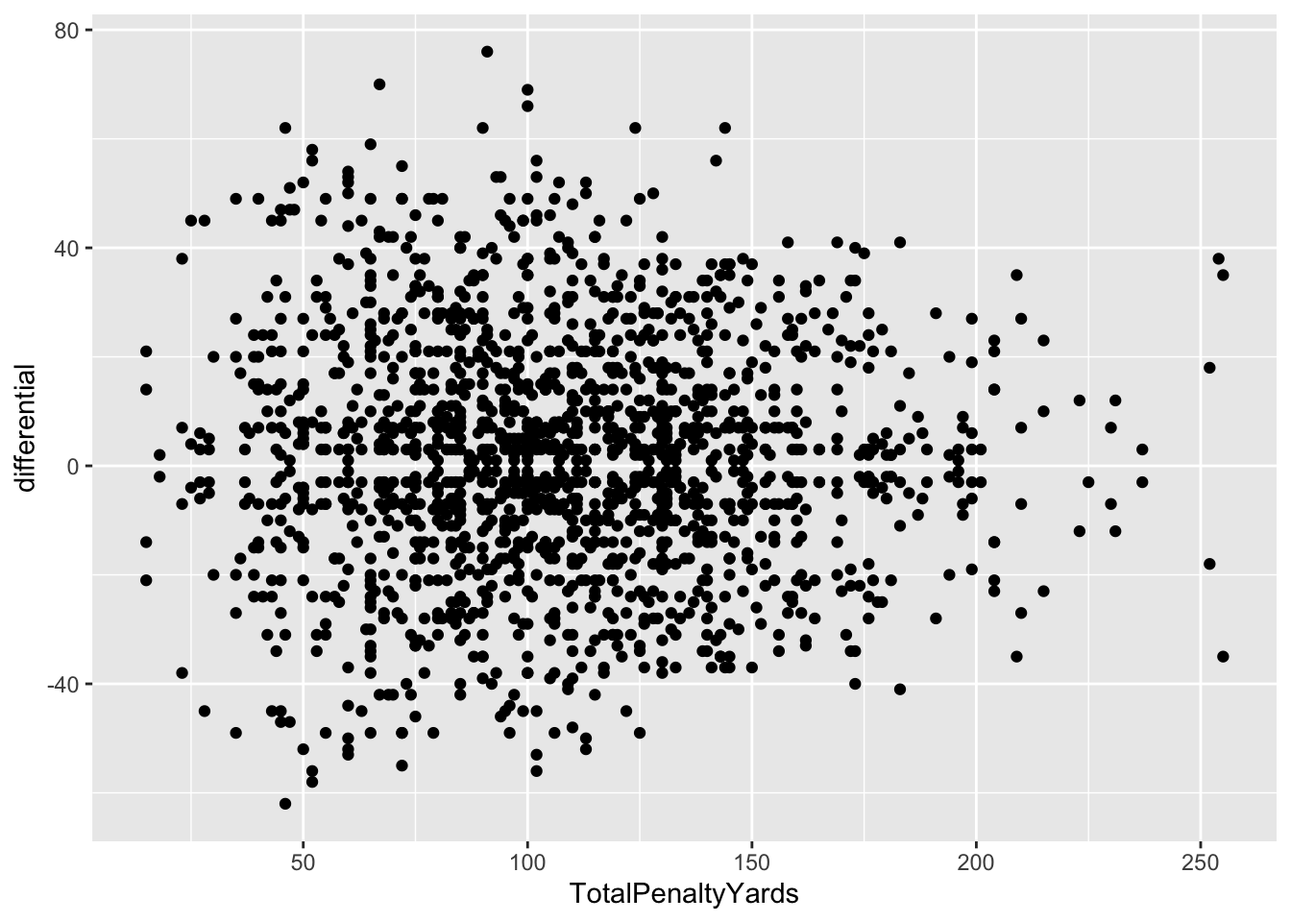
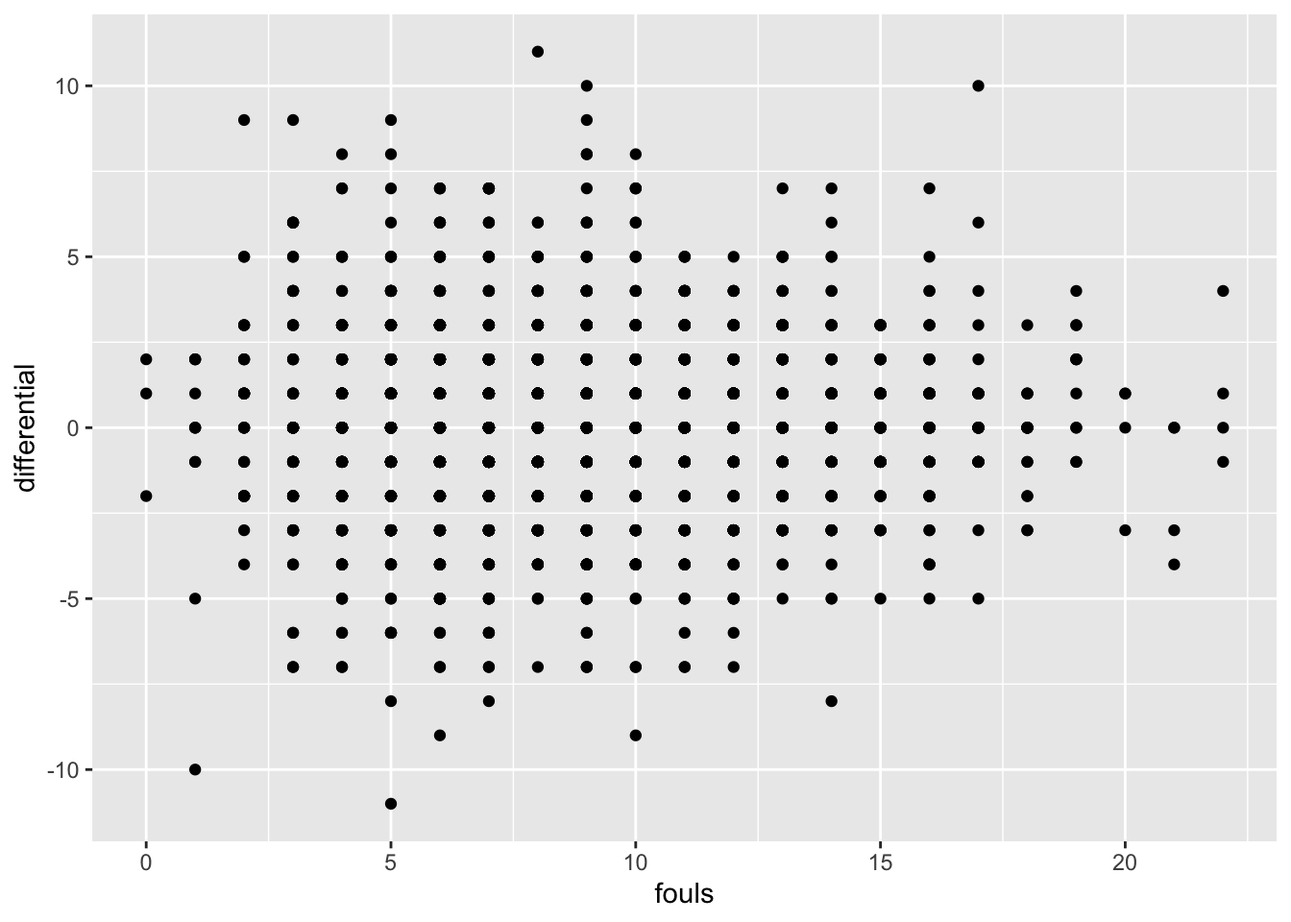
updated correlations chapter

diff --git a/sports/correlations.html b/sports/correlations.html
@@ -377,8 +377,8 @@ code span.wa { color: #60a0b0; font-weight: bold; font-style: italic; } /* Warni
 <p>Throughout sports, you will find no shortage of opinions. From people yelling at their TV screens to an entire industry of people paid to have opinions, there are no shortage of reasons why this team sucks and that player is great. They may have their reasons, but a better question is, does that reason really matter?</p>
 <p>Can we put some numbers behind that? Can we prove it or not?</p>
 <p>This is what we’re going to start to answer. And we’ll do it with correlations and regressions.</p>
-<p>First, we need data from the 2021 college football season.</p>
-<pre><p><strong>For this walkthrough:</strong></p><p><a href="https://dwillis.github.io/sportsdatafiles/footballlogs21.csv">
+<p>First, we need data from the 2021 women’s college soccer season.</p>
+<pre><p><strong>For this walkthrough:</strong></p><p><a href="https://raw.githubusercontent.com/dwillis/NCAAWomensSoccerData/main/data/ncaa_womens_soccer_matchstats_2022.csv">
   <button class="btn btn-danger"><i class="fa fa-save"></i> Download csv file</button>
 </a></p></pre>
 <p>Then load the tidyverse.</p>
@@ -387,91 +387,89 @@ code span.wa { color: #60a0b0; font-weight: bold; font-style: italic; } /* Warni
 </div>
 <p>Now import the data.</p>
 <div class="cell">
-<div class="sourceCode cell-code" id="cb2"><pre class="sourceCode r code-with-copy"><code class="sourceCode r"><span id="cb2-1"><a href="#cb2-1" aria-hidden="true" tabindex="-1"></a>correlations <span class="ot">&lt;-</span> <span class="fu">read_csv</span>(<span class="st">"data/footballlogs21.csv"</span>)</span></code><button title="Copy to Clipboard" class="code-copy-button"><i class="bi"></i></button></pre></div>
+<div class="sourceCode cell-code" id="cb2"><pre class="sourceCode r code-with-copy"><code class="sourceCode r"><span id="cb2-1"><a href="#cb2-1" aria-hidden="true" tabindex="-1"></a>correlations <span class="ot">&lt;-</span> <span class="fu">read_csv</span>(<span class="st">"data/ncaa_womens_soccer_matchstats_2022.csv"</span>)</span></code><button title="Copy to Clipboard" class="code-copy-button"><i class="bi"></i></button></pre></div>
 <div class="cell-output cell-output-stderr">
-<pre><code>Rows: 1655 Columns: 54
+<pre><code>Rows: 2442 Columns: 53
 ── Column specification ────────────────────────────────────────────────────────
 Delimiter: ","
-chr   (8): HomeAway, Opponent, Result, TeamFull, TeamURL, Outcome, Team, Con...
-dbl  (45): Game, PassingCmp, PassingAtt, PassingPct, PassingYds, PassingTD, ...
-date  (1): Date
+chr   (4): team, opponent, home_away, outcome
+dbl  (45): team_score, opponent_score, games, goals, assists, sh_att, so_g, ...
+lgl   (1): overtime
+date  (1): date
+time  (2): goalie_min_plyd, defensive_goalie_min_plyd
 
 ℹ Use `spec()` to retrieve the full column specification for this data.
 ℹ Specify the column types or set `show_col_types = FALSE` to quiet this message.</code></pre>
 </div>
 </div>
-<p>To do this, we need all FBS college football teams and their season stats from last year. How much, over the course of a season, does a thing matter? That’s the question you’re going to answer.</p>
-<p>In our case, we want to know how much does a team’s accumulated penalties influence the number of points they score in a season? How much difference can we explain in points with penalties?</p>
-<p>We’re going to use two different methods here and they’re closely related. Correlations – specifically the Pearson Correlation Coefficient – is a measure of how related two numbers are in a linear fashion. In other words – if our X value goes up one, what happens to Y? If it also goes up 1, that’s a perfect correlation. X goes up 1, Y goes up 1. Every time. Correlation coefficients are a number between 0 and 1, with zero being no correlation and 1 being perfect correlation <strong>if our data is linear</strong>. We’ll soon go over scatterplots to visually determine if our data is linear, but for now, we have a hypothesis: More penalties are bad. Penalties hurt. So if a team gets lots of them, they should have worse outcomes than teams that get few of them. That is an argument for a linear relationship between them.</p>
+<p>To do this, we need all college soccer teams and their season stats from this year. How much, over the course of a season, does a thing matter? That’s the question you’re going to answer.</p>
+<p>In our case, we want to know how much does a team’s fouls influence the number of goals they score in a season? How much difference can we explain in goals with fouls?</p>
+<p>We’re going to use two different methods here and they’re closely related. Correlations – specifically the Pearson Correlation Coefficient – is a measure of how related two numbers are in a linear fashion. In other words – if our X value goes up one, what happens to Y? If it also goes up 1, that’s a perfect correlation. X goes up 1, Y goes up 1. Every time. Correlation coefficients are a number between 0 and 1, with zero being no correlation and 1 being perfect correlation <strong>if our data is linear</strong>. We’ll soon go over scatterplots to visually determine if our data is linear, but for now, we have a hypothesis: More fouls are bad. Fouls hurt. So if a team gets lots of them, they should have worse outcomes than teams that get few of them. That is an argument for a linear relationship between them.</p>
 <p>But is there one?</p>
 <p>We’re going create a new dataframe called newcorrelations that takes our data that we imported and adds a column called <code>differential</code> because we don’t have separate offense and defense penalties, and then we’ll use correlations to see how related those two things are.</p>
 <div class="cell">
 <div class="sourceCode cell-code" id="cb4"><pre class="sourceCode r code-with-copy"><code class="sourceCode r"><span id="cb4-1"><a href="#cb4-1" aria-hidden="true" tabindex="-1"></a>newcorrelations <span class="ot">&lt;-</span> correlations <span class="sc">%&gt;%</span> </span>
 <span id="cb4-2"><a href="#cb4-2" aria-hidden="true" tabindex="-1"></a>  <span class="fu">mutate</span>(</span>
-<span id="cb4-3"><a href="#cb4-3" aria-hidden="true" tabindex="-1"></a>    <span class="at">differential =</span> TeamScore <span class="sc">-</span> OpponentScore, </span>
-<span id="cb4-4"><a href="#cb4-4" aria-hidden="true" tabindex="-1"></a>    <span class="at">TotalPenalties =</span> Penalties<span class="sc">+</span>DefPenalties, </span>
-<span id="cb4-5"><a href="#cb4-5" aria-hidden="true" tabindex="-1"></a>    <span class="at">TotalPenaltyYards =</span> PenaltyYds<span class="sc">+</span>DefPenaltyYds</span>
-<span id="cb4-6"><a href="#cb4-6" aria-hidden="true" tabindex="-1"></a>    )</span></code><button title="Copy to Clipboard" class="code-copy-button"><i class="bi"></i></button></pre></div>
+<span id="cb4-3"><a href="#cb4-3" aria-hidden="true" tabindex="-1"></a>    <span class="at">differential =</span> goals <span class="sc">-</span> defensive_goals</span>
+<span id="cb4-4"><a href="#cb4-4" aria-hidden="true" tabindex="-1"></a>    )</span></code><button title="Copy to Clipboard" class="code-copy-button"><i class="bi"></i></button></pre></div>
 </div>
-<p>In R, there is a <code>cor</code> function, and it works much the same as <code>mean</code> or <code>median</code>. So we want to see if <code>differential</code> is correlated with <code>TotalPenaltyYards</code>, which is the yards of penalties a team gets in a game. We do that by referencing <code>differential</code> and <code>TotalPenaltyYards</code> and specifying we want a <code>pearson</code> correlation. The number we get back is the correlation coefficient.</p>
+<p>In R, there is a <code>cor</code> function, and it works much the same as <code>mean</code> or <code>median</code>. So we want to see if <code>differential</code> is correlated with <code>fouls</code>, which is the yards of penalties a team gets in a game. We do that by referencing <code>differential</code> and <code>fouls</code> and specifying we want a <code>pearson</code> correlation. The number we get back is the correlation coefficient.</p>
 <div class="cell">
-<div class="sourceCode cell-code" id="cb5"><pre class="sourceCode r code-with-copy"><code class="sourceCode r"><span id="cb5-1"><a href="#cb5-1" aria-hidden="true" tabindex="-1"></a>newcorrelations <span class="sc">%&gt;%</span> <span class="fu">summarise</span>(<span class="at">correlation =</span> <span class="fu">cor</span>(differential, TotalPenaltyYards, <span class="at">method=</span><span class="st">"pearson"</span>))</span></code><button title="Copy to Clipboard" class="code-copy-button"><i class="bi"></i></button></pre></div>
+<div class="sourceCode cell-code" id="cb5"><pre class="sourceCode r code-with-copy"><code class="sourceCode r"><span id="cb5-1"><a href="#cb5-1" aria-hidden="true" tabindex="-1"></a>newcorrelations <span class="sc">%&gt;%</span> <span class="fu">summarise</span>(<span class="at">correlation =</span> <span class="fu">cor</span>(differential, fouls, <span class="at">method=</span><span class="st">"pearson"</span>))</span></code><button title="Copy to Clipboard" class="code-copy-button"><i class="bi"></i></button></pre></div>
 <div class="cell-output cell-output-stdout">
 <pre><code># A tibble: 1 × 1
   correlation
         &lt;dbl&gt;
-1     -0.0157</code></pre>
+1      0.0254</code></pre>
 </div>
 </div>
-<p>So on a scale of -1 to 1, where 0 means there’s no relationship at all and 1 or -1 means a perfect relationship, penalty yards and whether or not the team scores more points than it give up are at -0.01566025 You could say they’re 1.5 percent related toward the negative – more penalties, the lower your differential. Another way to say it? They’re 98.5 percent not related.</p>
-<p>What about the number of penalties instead of the yards?</p>
+<p>So on a scale of -1 to 1, where 0 means there’s no relationship at all and 1 or -1 means a perfect relationship, penalty yards and whether or not the team scores more points than it give up are at 0.02543571. You could say they’re 2.5 percent related toward the positive – more penalties, the higher your differential. Another way to say it? They’re 97.5 percent not related.</p>
+<p>What about the number of yellow cards instead of fouls? Do more aggressive defensive teams also score more?</p>
 <div class="cell">
 <div class="sourceCode cell-code" id="cb7"><pre class="sourceCode r code-with-copy"><code class="sourceCode r"><span id="cb7-1"><a href="#cb7-1" aria-hidden="true" tabindex="-1"></a>newcorrelations <span class="sc">%&gt;%</span> </span>
-<span id="cb7-2"><a href="#cb7-2" aria-hidden="true" tabindex="-1"></a>  <span class="fu">summarise</span>(<span class="at">correlation =</span> <span class="fu">cor</span>(differential, TotalPenalties, <span class="at">method=</span><span class="st">"pearson"</span>))</span></code><button title="Copy to Clipboard" class="code-copy-button"><i class="bi"></i></button></pre></div>
+<span id="cb7-2"><a href="#cb7-2" aria-hidden="true" tabindex="-1"></a>  <span class="fu">summarise</span>(<span class="at">correlation =</span> <span class="fu">cor</span>(differential, yellow_cards, <span class="at">method=</span><span class="st">"pearson"</span>))</span></code><button title="Copy to Clipboard" class="code-copy-button"><i class="bi"></i></button></pre></div>
 <div class="cell-output cell-output-stdout">
 <pre><code># A tibble: 1 × 1
   correlation
         &lt;dbl&gt;
-1     -0.0151</code></pre>
+1     -0.0651</code></pre>
 </div>
 </div>
 <p>So wait, what does this all mean?</p>
-<p>It means that when you look at every game in college football, the number of penalties and penalty yards does have a negative impact on the score difference between your team and the other team. But the relationship between penalties, penalty yards and the difference between scores is barely anything at all. Like 98+ percent plus not related.</p>
-<p>Normally, at this point, you’d quit while you were ahead. A correlation coefficient that shows there’s no relationship between two things means stop. It’s pointless to go on. But let’s beat a dead horse a bit for the sake of talk radio callers who want to complain about undisciplined football teams.</p>
+<p>It means that when you look at every game in college soccer, the number of goals and yellow cards have a negative impact on the score difference between your team and the other team. But the relationship is barely anything at all. Like 93+ percent plus not related. So neither penalties nor yellow cards have much of any relationship with the difference in goal-scoring.</p>
+<p>Normally, at this point, you’d quit while you were ahead. A correlation coefficient that shows there’s no relationship between two things means stop. It’s pointless to go on. But let’s put this fully to rest.</p>
 <p>Enter regression. Regression is how we try to fit our data into a line that explains the relationship the best. Regressions will help us predict things as well – if we have a team that has so many penalties, what kind of point differential could we expect? So regressions are about prediction, correlations are about description. Correlations describe a relationship. Regressions help us predict what that relationship means and what it might look like in the real world. Specifically, it tells us how much of the change in a dependent variable can be explained by the independent variable.</p>
 <p>Another thing regressions do is give us some other tools to evaluate if the relationship is real or not.</p>
-<p>Here’s an example of using linear modeling to look at penalty yards. Think of the <code>~</code> character as saying “is predicted by”. The output looks like a lot, but what we need is a small part of it.</p>
+<p>Here’s an example of using linear modeling to look at fouls. Think of the <code>~</code> character as saying “is predicted by”. The output looks like a lot, but what we need is a small part of it.</p>
 <div class="cell">
-<div class="sourceCode cell-code" id="cb9"><pre class="sourceCode r code-with-copy"><code class="sourceCode r"><span id="cb9-1"><a href="#cb9-1" aria-hidden="true" tabindex="-1"></a>fit <span class="ot">&lt;-</span> <span class="fu">lm</span>(differential <span class="sc">~</span> TotalPenaltyYards, <span class="at">data =</span> newcorrelations)</span>
+<div class="sourceCode cell-code" id="cb9"><pre class="sourceCode r code-with-copy"><code class="sourceCode r"><span id="cb9-1"><a href="#cb9-1" aria-hidden="true" tabindex="-1"></a>fit <span class="ot">&lt;-</span> <span class="fu">lm</span>(differential <span class="sc">~</span> fouls, <span class="at">data =</span> newcorrelations)</span>
 <span id="cb9-2"><a href="#cb9-2" aria-hidden="true" tabindex="-1"></a><span class="fu">summary</span>(fit)</span></code><button title="Copy to Clipboard" class="code-copy-button"><i class="bi"></i></button></pre></div>
 <div class="cell-output cell-output-stdout">
 <pre><code>
 Call:
-lm(formula = differential ~ TotalPenaltyYards, data = newcorrelations)
+lm(formula = differential ~ fouls, data = newcorrelations)
 
 Residuals:
-    Min      1Q  Median      3Q     Max 
--64.472 -13.895   0.597  14.661  73.916 
+     Min       1Q   Median       3Q      Max 
+-10.9841  -1.1060  -0.0538   1.0159  10.9636 
 
 Coefficients:
-                   Estimate Std. Error t value Pr(&gt;|t|)  
-(Intercept)        2.868781   1.549579   1.851   0.0643 .
-TotalPenaltyYards -0.008619   0.013535  -0.637   0.5244  
----
-Signif. codes:  0 '***' 0.001 '**' 0.01 '*' 0.05 '.' 0.1 ' ' 1
+            Estimate Std. Error t value Pr(&gt;|t|)
+(Intercept) -0.10303    0.13403  -0.769    0.442
+fouls        0.01742    0.01386   1.257    0.209
 
-Residual standard error: 22.26 on 1653 degrees of freedom
-Multiple R-squared:  0.0002452, Adjusted R-squared:  -0.0003596 
-F-statistic: 0.4055 on 1 and 1653 DF,  p-value: 0.5244</code></pre>
+Residual standard error: 2.474 on 2440 degrees of freedom
+Multiple R-squared:  0.000647,  Adjusted R-squared:  0.0002374 
+F-statistic:  1.58 on 1 and 2440 DF,  p-value: 0.2089</code></pre>
 </div>
 </div>
 <p>There’s three things we need here:</p>
 <ol type="1">
-<li>First we want to look at the p-value. It’s at the bottom right corner of the output. In the case of Total Penalty Yards, the p-value is .5244. The threshold we’re looking for here is .05. If it’s less than .05, then the relationship is considered to be <em>statistically significant</em>. Significance here does not mean it’s a big deal. It means it’s not random. That’s it. Just that. Not random. So in our case, the relationship between total penalty yards and a team’s aggregate point differential are <strong>not statistically significant</strong>. The differences in score difference and penalty yards could be completely random. This is another sign we should just stop with this.</li>
-<li>Second, we look at the Adjusted R-squared value. It’s right above the p-value. Adjusted R-squared is a measure of how much of the difference between teams aggregate point values can be explained by penalty yards. Our correlation coefficient said they’re 1.5 percent related to each other, but penalty yards’ ability to explain the difference between teams? About -0.00036 percent. That’s … not much. It’s really nothing. Again, we should quit.</li>
-<li>The third thing we can look at, and we only bother if the first two are meaningful, is the coefficients. In the middle, you can see the (Intercept) is 2.868781 and the TotalPenaltyYards coefficient is -0.008619 Remember high school algebra? Remember learning the equation of a line? Remember swearing that learning <code>y=mx+b</code> is stupid because you’ll never need it again? Surprise. It’s useful again. In this case, we could try to predict a team’s score differential in a game – will they score more than they give up – by using <code>y=mx+b</code>. In this case, y is the aggregate score, m is -0.008619 and b is 2.868781 So we would multiply a teams total penalty yards by -0.008619 and then add 2.868781 to it. The result would tell you what the total aggregate score in the game would be, according to our model. Chance that you’re even close with this? About .08 percent. In other words, you’ve got a 99.92 percent chance of being completely wrong. Did I say we should quit? Yeah.</li>
+<li>First we want to look at the p-value. It’s at the bottom right corner of the output. In the case of fouls, the p-value is .2089. The threshold we’re looking for here is .05. If it’s less than .05, then the relationship is considered to be <em>statistically significant</em>. Significance here does not mean it’s a big deal. It means it’s not random. That’s it. Just that. Not random. So in our case, the relationship between fouls and a team’s aggregate point differential are <strong>not statistically significant</strong>. The differences in score difference and fouls could be completely random. This is another sign we should just stop with this.</li>
+<li>Second, we look at the Adjusted R-squared value. It’s right above the p-value. Adjusted R-squared is a measure of how much of the difference between teams aggregate point values can be explained by fouls. Our correlation coefficient said they’re 2.5 percent related to each other, but fouls’ ability to explain the difference between teams? About 0.0002374 percent. That’s … not much. It’s really nothing. Again, we should quit.</li>
+<li>The third thing we can look at, and we only bother if the first two are meaningful, is the coefficients. In the middle, you can see the (Intercept) is -0.10303 and the fouls coefficient is 0.01742 Remember high school algebra? Remember learning the equation of a line? Remember swearing that learning <code>y=mx+b</code> is stupid because you’ll never need it again? Surprise. It’s useful again. In this case, we could try to predict a team’s score differential in a game – will they score more than they give up – by using <code>y=mx+b</code>. In this case, y is the aggregate score, m is 0.01742 and b is -0.10303 So we would multiply a teams total fouls by 0.01742 and then add -0.10303 to it. The result would tell you what the total aggregate score in the game would be, according to our model. Chance that you’re even close with this? About .08 percent. In other words, you’ve got a 99.92 percent chance of being completely wrong. Did I say we should quit? Yeah.</li>
 </ol>
-<p>So penalty yards are totally meaningless to the outcome of a game.</p>
+<p>So fouls are totally meaningless to the outcome of a game.</p>
 <p>You can see the problem in a graph. On the X axis is penalty yards, on the y is aggregate score. If these elements had a strong relationship, we’d see a clear pattern moving from right to left, sloping down. On the left would be the teams with few penalties and a positive point differential. On right would be teams with high penalty yards and negative point differentials. Do you see that below?</p>
 <div class="cell">
 <div class="cell-output-display">
@@ -480,57 +478,54 @@ F-statistic: 0.4055 on 1 and 1653 DF,  p-value: 0.5244</code></pre>
 </div>
 <section id="a-more-predictive-example" class="level2" data-number="9.1">
 <h2 data-number="9.1" class="anchored" data-anchor-id="a-more-predictive-example"><span class="header-section-number">9.1</span> A more predictive example</h2>
-<p>So we’ve <strong>firmly</strong> established that penalties aren’t predictive. But what is?</p>
-<p>So instead of looking at penalty yards, let’s make a new metric: Net Yards. Can we predict the score differential by looking at the yards a team gained minus the yards they gave up.</p>
-<div class="cell">
-<div class="sourceCode cell-code" id="cb11"><pre class="sourceCode r code-with-copy"><code class="sourceCode r"><span id="cb11-1"><a href="#cb11-1" aria-hidden="true" tabindex="-1"></a>regressions <span class="ot">&lt;-</span> newcorrelations <span class="sc">%&gt;%</span> <span class="fu">mutate</span>(<span class="at">NetYards =</span> OffensiveYards <span class="sc">-</span> DefYards)</span></code><button title="Copy to Clipboard" class="code-copy-button"><i class="bi"></i></button></pre></div>
-</div>
+<p>So we’ve <strong>firmly</strong> established that fouls aren’t predictive. But what is?</p>
+<p>So instead of looking at fouls, let’s make a new metric: shots on goal. Can we predict the score differential by looking at the shots they put on goal?</p>
 <p>First, let’s look at the correlation coefficent.</p>
 <div class="cell">
-<div class="sourceCode cell-code" id="cb12"><pre class="sourceCode r code-with-copy"><code class="sourceCode r"><span id="cb12-1"><a href="#cb12-1" aria-hidden="true" tabindex="-1"></a>regressions <span class="sc">%&gt;%</span> </span>
-<span id="cb12-2"><a href="#cb12-2" aria-hidden="true" tabindex="-1"></a>  <span class="fu">summarise</span>(<span class="at">correlation =</span> <span class="fu">cor</span>(differential, NetYards, <span class="at">method=</span><span class="st">"pearson"</span>))</span></code><button title="Copy to Clipboard" class="code-copy-button"><i class="bi"></i></button></pre></div>
+<div class="sourceCode cell-code" id="cb11"><pre class="sourceCode r code-with-copy"><code class="sourceCode r"><span id="cb11-1"><a href="#cb11-1" aria-hidden="true" tabindex="-1"></a>newcorrelations <span class="sc">%&gt;%</span> </span>
+<span id="cb11-2"><a href="#cb11-2" aria-hidden="true" tabindex="-1"></a>  <span class="fu">summarise</span>(<span class="at">correlation =</span> <span class="fu">cor</span>(differential, so_g, <span class="at">method=</span><span class="st">"pearson"</span>))</span></code><button title="Copy to Clipboard" class="code-copy-button"><i class="bi"></i></button></pre></div>
 <div class="cell-output cell-output-stdout">
 <pre><code># A tibble: 1 × 1
   correlation
         &lt;dbl&gt;
-1       0.832</code></pre>
+1       0.639</code></pre>
 </div>
 </div>
-<p>Answer: 83 percent. Not a perfect relationship, but very good. But how meaningful is that relationship and how predictive is it?</p>
+<p>Answer: 63 percent. Not a perfect relationship, but pretty good. But how meaningful is that relationship and how predictive is it?</p>
 <div class="cell">
-<div class="sourceCode cell-code" id="cb14"><pre class="sourceCode r code-with-copy"><code class="sourceCode r"><span id="cb14-1"><a href="#cb14-1" aria-hidden="true" tabindex="-1"></a>net <span class="ot">&lt;-</span> <span class="fu">lm</span>(differential <span class="sc">~</span> NetYards, <span class="at">data =</span> regressions)</span>
-<span id="cb14-2"><a href="#cb14-2" aria-hidden="true" tabindex="-1"></a><span class="fu">summary</span>(net)</span></code><button title="Copy to Clipboard" class="code-copy-button"><i class="bi"></i></button></pre></div>
+<div class="sourceCode cell-code" id="cb13"><pre class="sourceCode r code-with-copy"><code class="sourceCode r"><span id="cb13-1"><a href="#cb13-1" aria-hidden="true" tabindex="-1"></a>net <span class="ot">&lt;-</span> <span class="fu">lm</span>(differential <span class="sc">~</span> so_g, <span class="at">data =</span> newcorrelations)</span>
+<span id="cb13-2"><a href="#cb13-2" aria-hidden="true" tabindex="-1"></a><span class="fu">summary</span>(net)</span></code><button title="Copy to Clipboard" class="code-copy-button"><i class="bi"></i></button></pre></div>
 <div class="cell-output cell-output-stdout">
 <pre><code>
 Call:
-lm(formula = differential ~ NetYards, data = regressions)
+lm(formula = differential ~ so_g, data = newcorrelations)
 
 Residuals:
     Min      1Q  Median      3Q     Max 
--36.252  -8.373  -0.004   8.660  35.396 
+-9.0733 -1.0733  0.2329  1.2329  7.2688 
 
 Coefficients:
             Estimate Std. Error t value Pr(&gt;|t|)    
-(Intercept) 0.428075   0.304630   1.405     0.16    
-NetYards    0.107464   0.001762  60.978   &lt;2e-16 ***
+(Intercept) -2.35010    0.07011  -33.52   &lt;2e-16 ***
+so_g         0.42345    0.01032   41.03   &lt;2e-16 ***
 ---
 Signif. codes:  0 '***' 0.001 '**' 0.01 '*' 0.05 '.' 0.1 ' ' 1
 
-Residual standard error: 12.35 on 1653 degrees of freedom
-Multiple R-squared:  0.6923,    Adjusted R-squared:  0.6921 
-F-statistic:  3718 on 1 and 1653 DF,  p-value: &lt; 2.2e-16</code></pre>
+Residual standard error: 1.904 on 2440 degrees of freedom
+Multiple R-squared:  0.4083,    Adjusted R-squared:  0.408 
+F-statistic:  1683 on 1 and 2440 DF,  p-value: &lt; 2.2e-16</code></pre>
 </div>
 </div>
-<p>First we check p-value. See that e-16? That means scientific notation. That means our number is 2.2 times 10 to the -16 power. So -.000000000000000022. That’s sixteen zeros between the decimal and 22. Is that less than .05? Uh, yeah. So this is really, really, really not random. But anyone who has watched a game of football knows this is true. It makes intuitive sense.</p>
-<p>Second, Adjusted R-squared: 0.6921. So we can predict a whopping 69 percent of the difference in the score differential by simply looking at the net yards the team has.</p>
-<p>Third, the coefficients: In this case, our <code>y=mx+b</code> formula looks like <code>y = 0.107464x + 0.428075</code>. So if we were applying this, let’s look at Nebraska’s 26-20 loss to Iowa in 2020. Nebraska’s net yards that game? 16. That’s right – positive net yards, but still a loss. What does our model say the point differential should have been?</p>
+<p>First we check p-value. See that e-16? That means scientific notation. That means our number is 2.2 times 10 to the -16 power. So -.000000000000000022. That’s sixteen zeros between the decimal and 22. Is that less than .05? Uh, yeah. So this is really, really, really not random. But anyone who has watched a game of soccer knows this is true. It makes intuitive sense.</p>
+<p>Second, Adjusted R-squared: 0.408. So we can predict a 40 percent of the difference in the score differential by simply looking at the shots on goal the team has.</p>
+<p>Third, the coefficients: In this case, our <code>y=mx+b</code> formula looks like <code>y = 0.42345x + -2.35010</code>. So if we were applying this, let’s look at Maryland’s 1-1 draw against Temple on August 18. Maryland’s shots on goal in that game? 8. What does our model say the point differential should have been?</p>
 <div class="cell">
-<div class="sourceCode cell-code" id="cb16"><pre class="sourceCode r code-with-copy"><code class="sourceCode r"><span id="cb16-1"><a href="#cb16-1" aria-hidden="true" tabindex="-1"></a>(<span class="fl">0.107464</span><span class="sc">*</span><span class="dv">16</span>)<span class="sc">+</span><span class="fl">0.428075</span> </span></code><button title="Copy to Clipboard" class="code-copy-button"><i class="bi"></i></button></pre></div>
+<div class="sourceCode cell-code" id="cb15"><pre class="sourceCode r code-with-copy"><code class="sourceCode r"><span id="cb15-1"><a href="#cb15-1" aria-hidden="true" tabindex="-1"></a>(<span class="fl">0.42345</span><span class="sc">*</span><span class="dv">8</span>)<span class="sc">+-</span><span class="fl">2.35010</span> </span></code><button title="Copy to Clipboard" class="code-copy-button"><i class="bi"></i></button></pre></div>
 <div class="cell-output cell-output-stdout">
-<pre><code>[1] 2.147499</code></pre>
+<pre><code>[1] 1.0375</code></pre>
 </div>
 </div>
-<p>So by our model, Nebraska should have won by 2.14 points. Some games are closer than others. But when you can explain 69 percent of the difference, this is the kind of result you get. What would improve the model? Using more data to start. And using more inputs.</p>
+<p>So by our model, Maryland should have won by a goal. Some games are closer than others. But when you can explain 40 percent of the difference, this is the kind of result you get. What would improve the model? Using more data to start. And using more inputs.</p>
 
 
 </section>
